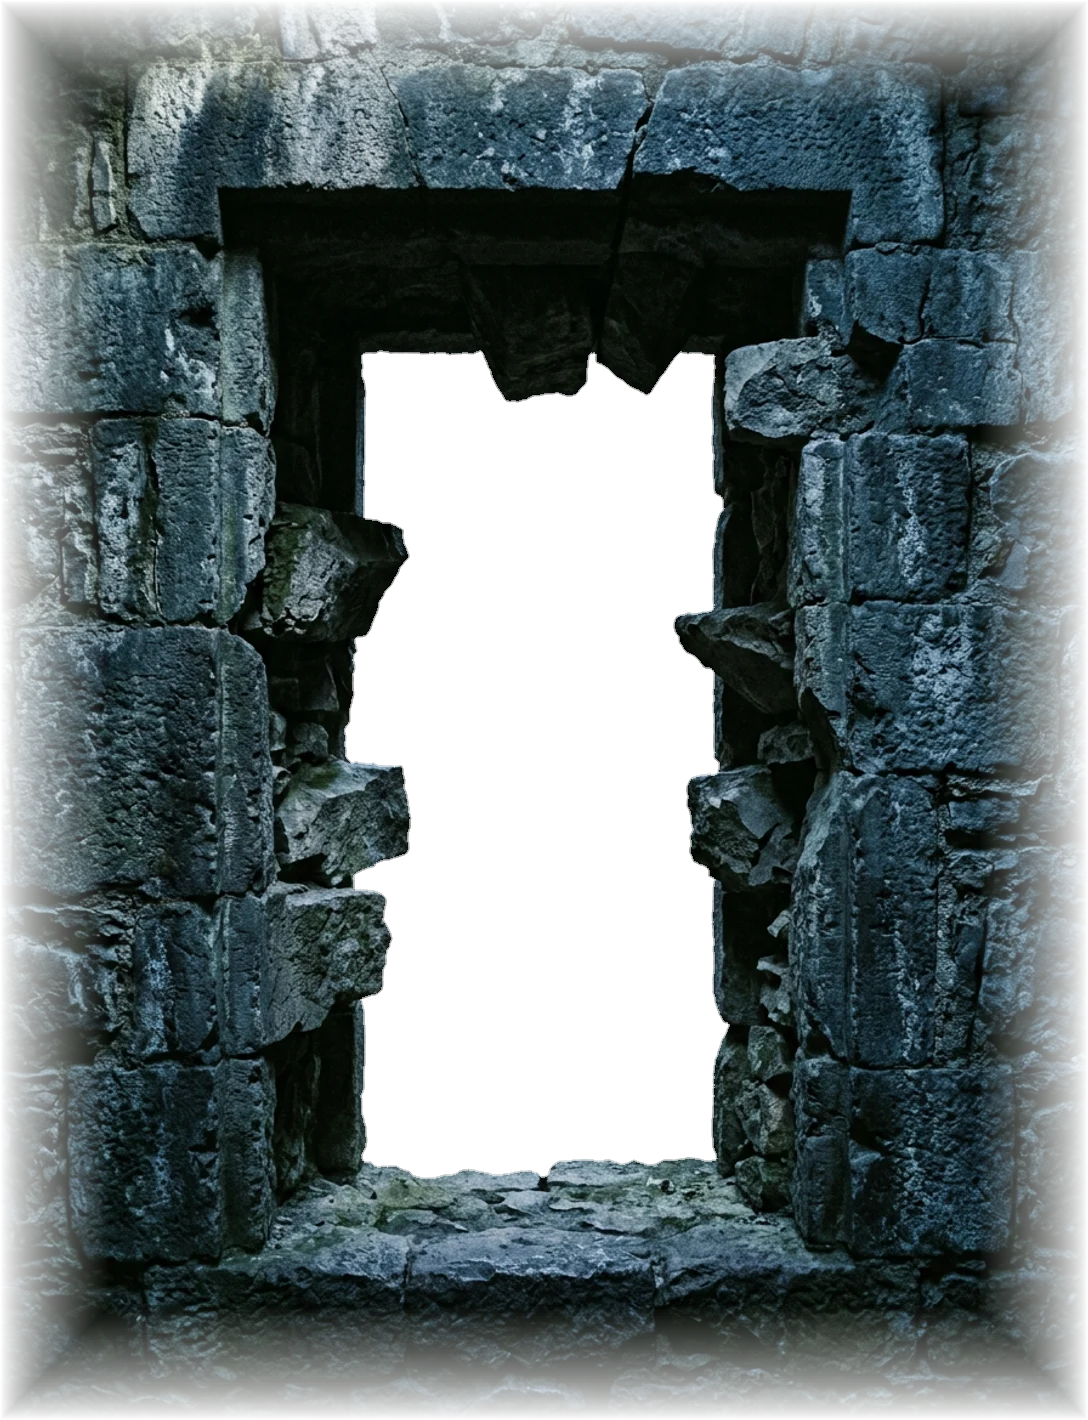
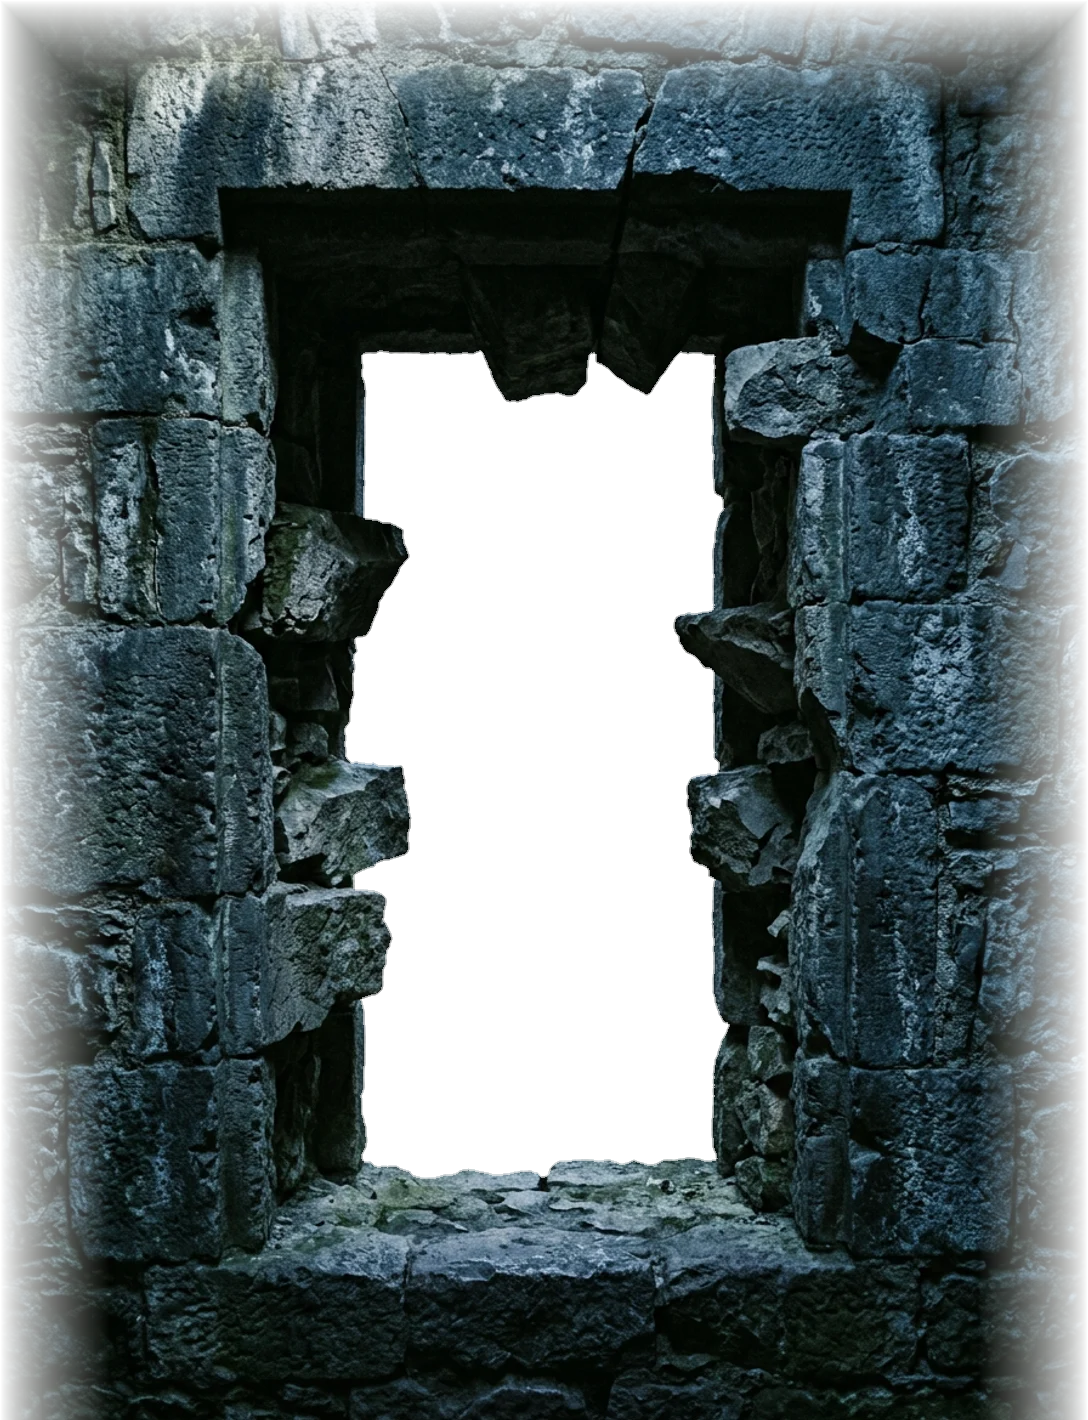
About photo test 3d: photo fitted to the stone window, solid bottom ledge, no glow box

Changed region(s): [[0.0, 0.9296, 1.0, 1.0]]

diff --git a/index.html b/index.html
@@ -531,7 +531,8 @@ body.wallpage .aphoto2 > img:first-child{filter:brightness(.2) saturate(.35) sep
 body.wallpage .aphoto2 .lit{display:block; filter:sepia(.28) saturate(1.05) brightness(1.06) contrast(1.04); -webkit-mask-image:radial-gradient(circle var(--lr,0px) at var(--lx,50%) var(--ly,50%), #000 0%, rgba(0,0,0,.55) 45%, transparent 100%); mask-image:radial-gradient(circle var(--lr,0px) at var(--lx,50%) var(--ly,50%), #000 0%, rgba(0,0,0,.55) 45%, transparent 100%)}
 /* 3d: the photo seen through a broken stone window (stone generated with Gemini, edges faded into the wall) */
 body.wallpage .aphoto2{background:transparent!important; box-shadow:none!important; overflow:visible}
-body.wallpage .aphoto2 > img:not(.frame){inset:25% 19% 13% 19%; width:auto; height:auto}
+body.wallpage .aphoto2 > img:not(.frame){inset:22% 29% 15% 29%; width:auto; height:auto; object-position:50% 22%}
+body.wallpage .aphoto2::before{display:none}
 .aphoto2 .frame{display:none}
 body.wallpage .aphoto2 .frame{display:block; position:absolute; inset:0; width:100%; height:100%; z-index:2; pointer-events:none; filter:brightness(.5) saturate(.6) hue-rotate(10deg)}
 body.wallpage .aphoto2::before{content:""; position:absolute; inset:0; z-index:1; pointer-events:none; mix-blend-mode:soft-light; background:radial-gradient(circle calc(var(--lr,0px) * 1.2) at var(--gx,50%) var(--gy,50%), rgba(255,140,50,.85), rgba(255,140,50,0) 100%)}
